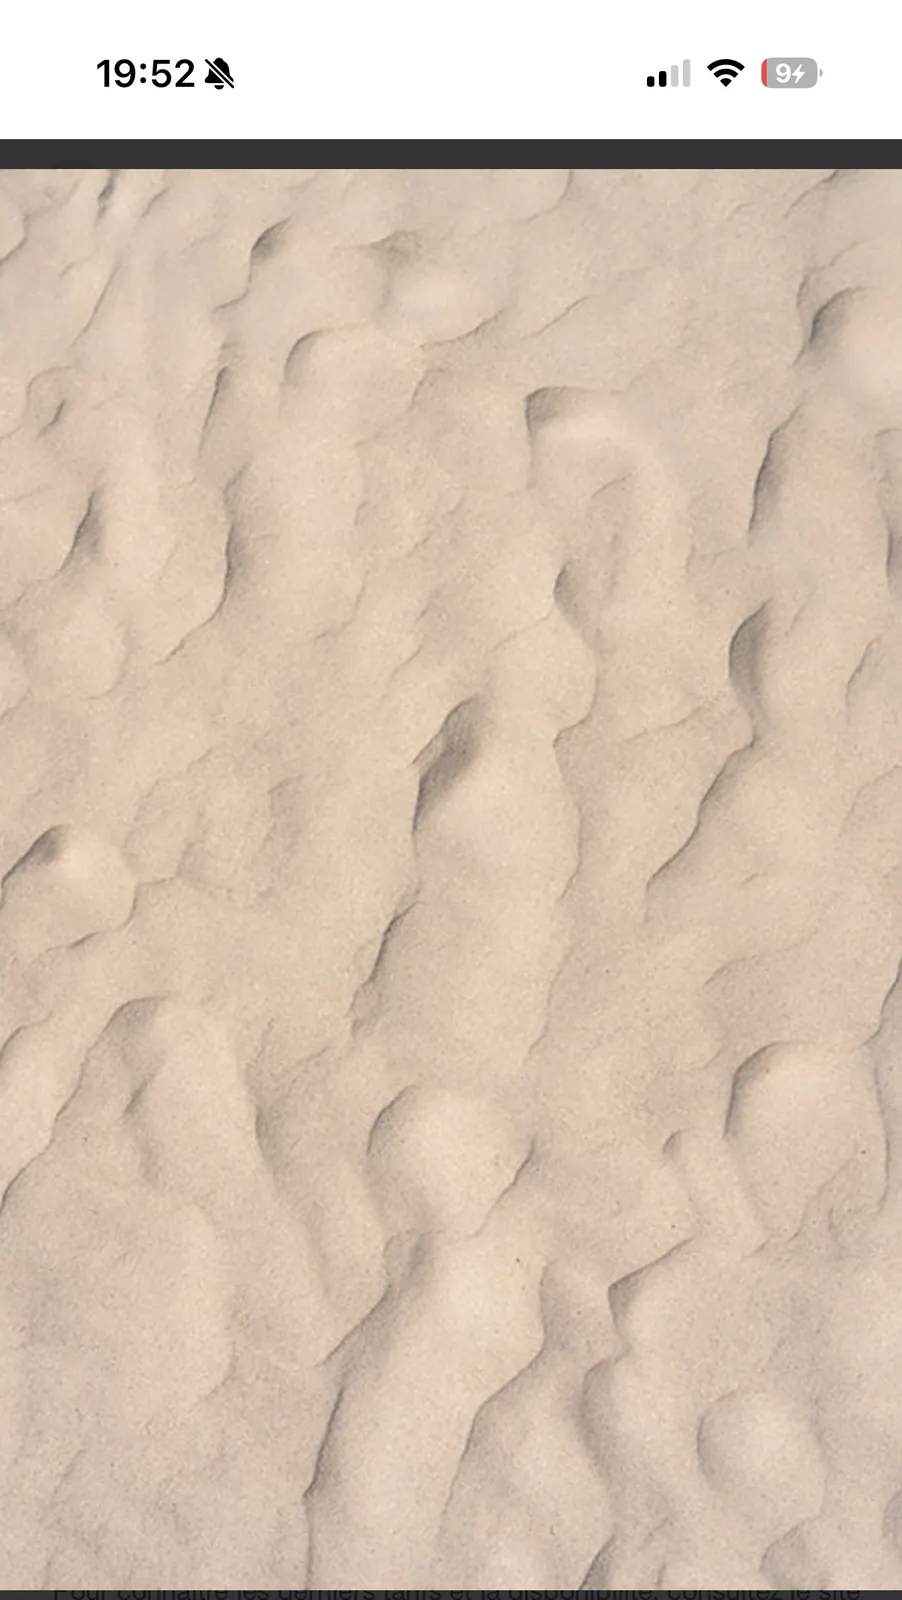
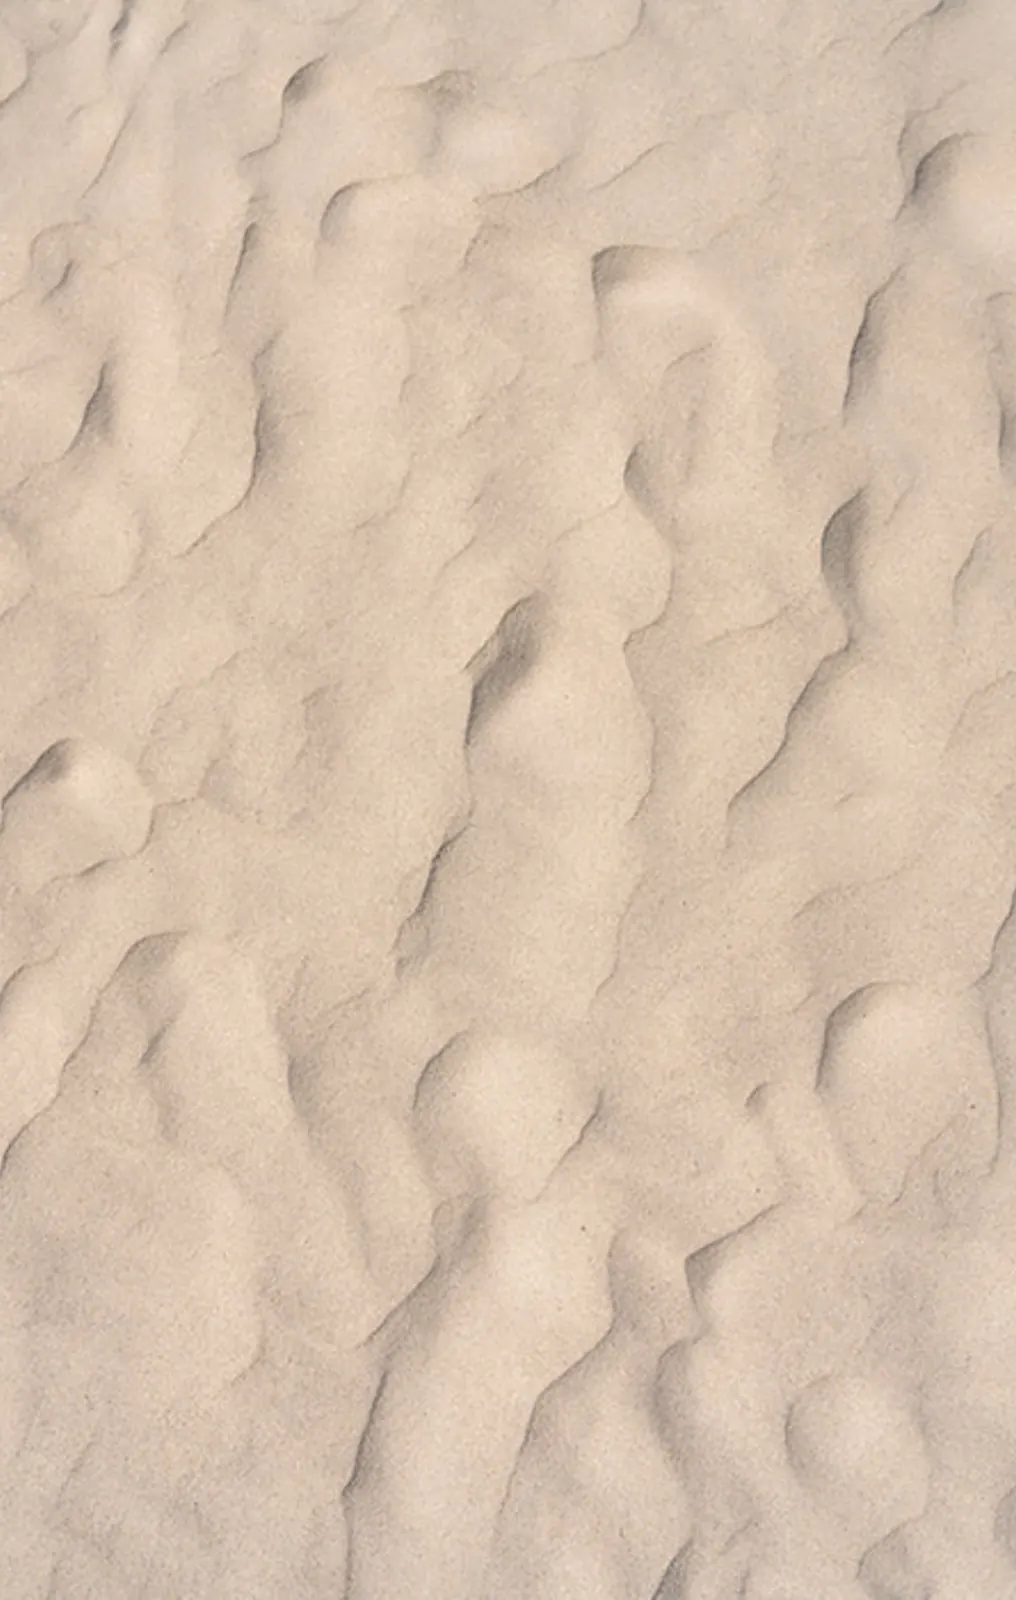
fix(catalogue): recadre la seule capture d'ecran du lot (homepage-01)
Verification faite sur les 223 photos, pas seulement la home : planche
contact des bandeaux superieurs de toutes les images d'origine PNG (les
seules susceptibles d'etre des captures — les photos appareil sont en
HEIC/JPEG). Resultat : une seule capture d'ecran, HoMEPAGE/IMG_0167.PNG.

Retire la barre d'etat iPhone + le bandeau noir en haut (y 0-226) et la
ligne de texte tronquee en bas (y 2126-2139). Bornes mesurees par analyse
de luminance ligne par ligne, pas a l'oeil. Reste une texture de sable
propre, 1016x1600.

Le recadrage vit dans convert.py (table CROPS) : le pipeline reste
reproductible de bout en bout. Les 222 autres photos sont regenerees a
l'identique.

npm run build : 5 pages generees, OK.

Claude-Session: https://claude.ai/code/session_0144G8YBbLbvpb7fg8QFCjYi

diff --git a/src/data/catalogue.ts b/src/data/catalogue.ts
@@ -1,11 +1,11 @@
 // Catalogue photo — GÉNÉRÉ depuis le Drive « Photo sac » d'Allan (31/07/2026).
-// 223 photos converties en WebP (max 1600 px, q78) par le script
-// scratchpad/convert.py. Les libellés reprennent les noms de dossiers
-// de la cliente : aucune description produit n'est inventée ici.
+// 223 photos converties en WebP (max 1600 px, q78) par scratchpad/convert.py.
+// Les libellés reprennent les noms de dossiers de la cliente : aucune
+// description produit n'est inventée ici.
 
 export interface PhotoCatalogue {
   src: string;
-  /** largeur en px, pour réserver le ratio et éviter le CLS */
+  /** dimensions du fichier, pour réserver le ratio et éviter le CLS */
   w: number;
   h: number;
 }
@@ -255,7 +255,7 @@ export const catalogue: CategorieCatalogue[] = [
     slug: "homepage",
     libelle: "Visuels page d'accueil",
     photos: [
-      { src: "/images/catalogue/homepage/homepage-01.webp", w: 902, h: 1600 },
+      { src: "/images/catalogue/homepage/homepage-01.webp", w: 1016, h: 1600 },
       { src: "/images/catalogue/homepage/homepage-02.webp", w: 768, h: 1364 },
       { src: "/images/catalogue/homepage/homepage-03.webp", w: 768, h: 1364 },
       { src: "/images/catalogue/homepage/homepage-04.webp", w: 768, h: 1364 },
